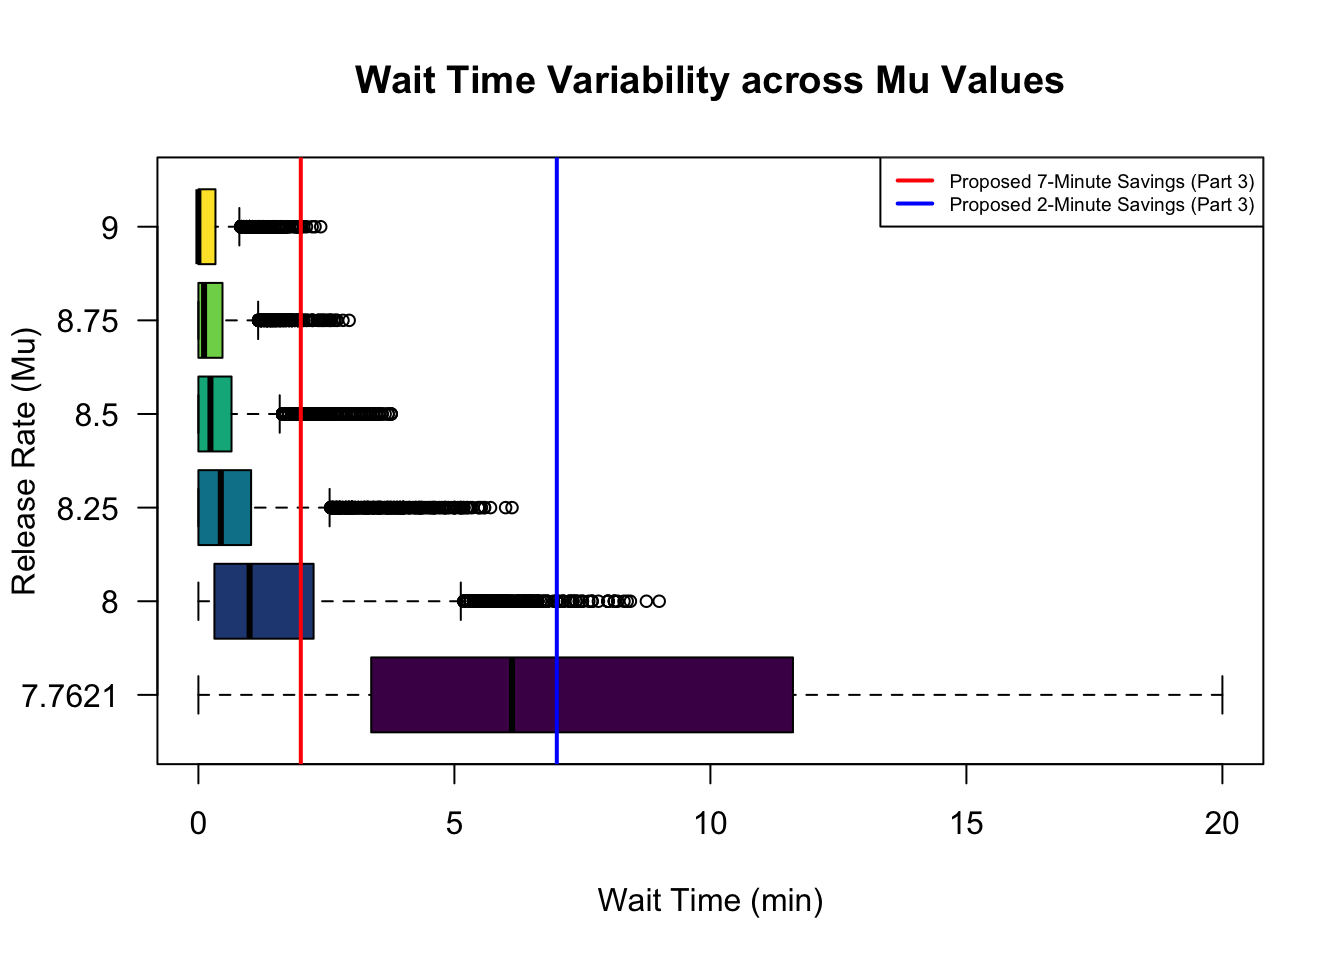
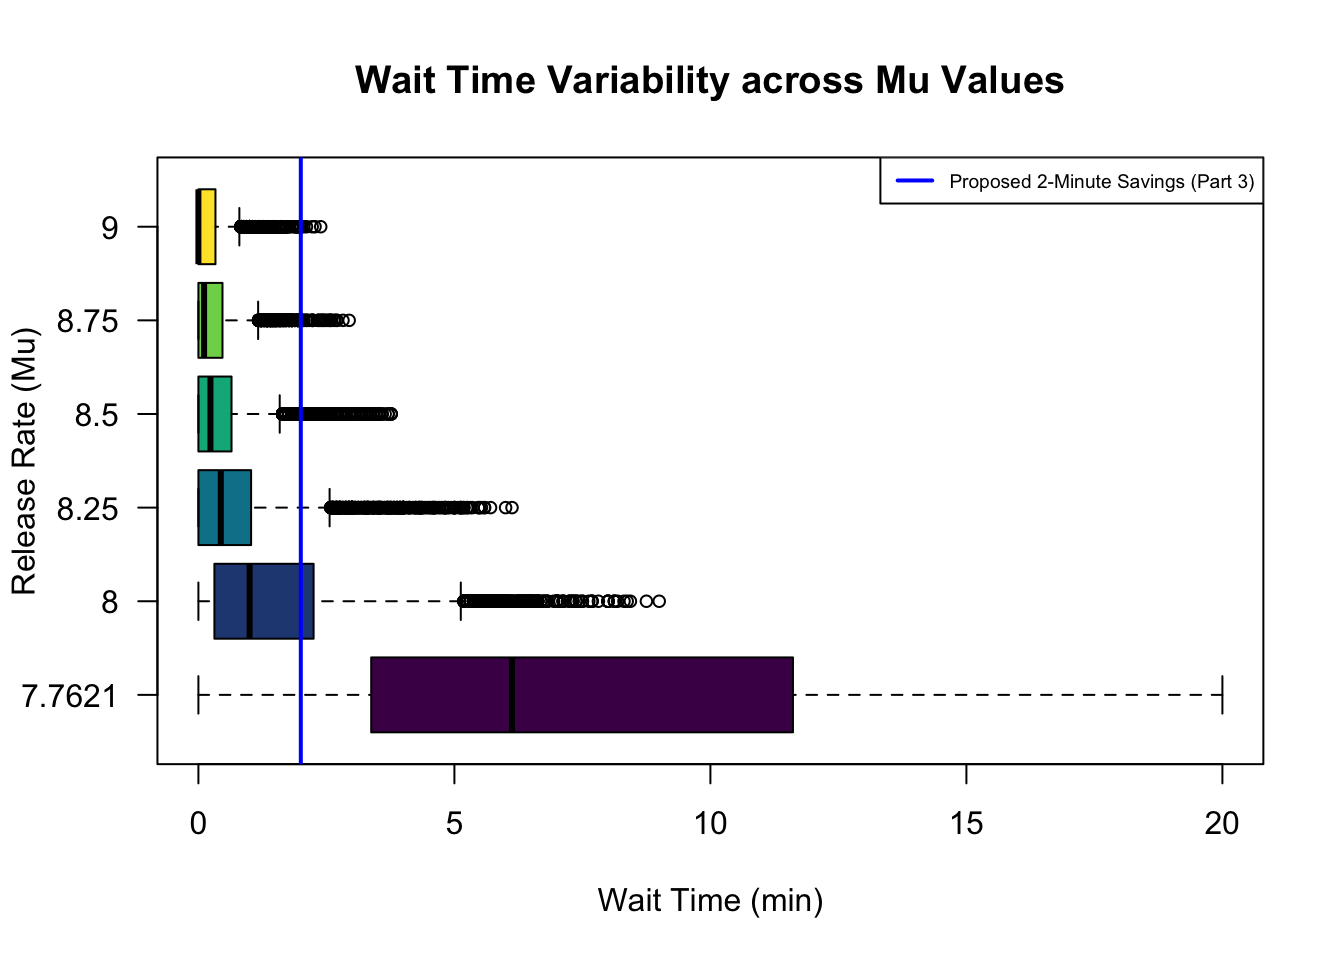
intext citations update

Changed region(s): [[0.4062, 0.1875, 0.4375, 0.7812], [0.2188, 0.1875, 0.25, 0.7812], [0.6562, 0.1875, 0.9375, 0.25]]

diff --git a/index.html b/index.html
@@ -291,7 +291,7 @@ document.addEventListener("DOMContentLoaded", function() {
 </table>
 <section id="introduction-and-background" class="level2">
 <h2 class="anchored" data-anchor-id="introduction-and-background">Introduction and Background</h2>
-<p>Perth’s freeway network has undergone significant changes in recent years. One of the more controversial upgrades is the Smart Freeways project; a modification which aims to improve travel times of commuters from the city’s outer suburbs heading toward the center. This system has been implemented on both the Kwinana Freeway Northbound and the Mitchell Freeway Southbound, managing traffic flow primarily through digital speed-limit gantries and on-ramp metering. On the Mitchell South, travel times during the morning peak have been reduced by up to seven minutes for trips from Hester Avenue, Clarkson to Vincent Street, Leederville (Main Roads, 2025). Road users further north enjoy these improved speeds as they spend a majority of their journey on the freeway mainline. However, commuters closer to the city are more affected by ramp-metering, since a smaller proportion of their trip occurs on the freeway itself. As a result, some drivers have reported their morning commute times more than doubling in length (ABC, 2025).</p>
+<p>Perth’s freeway network has undergone significant changes in recent years. One of the more controversial upgrades is the Smart Freeways project; a modification which aims to improve travel times of commuters from the city’s outer suburbs heading toward the center. This system has been implemented on both the Kwinana Freeway Northbound and the Mitchell Freeway Southbound, managing traffic flow primarily through digital speed-limit gantries and on-ramp metering. On the Mitchell South, travel times during the morning peak have been reduced by up to seven minutes for trips from Hester Avenue, Clarkson to Vincent Street, Leederville (Main Roads Western Australia, 2025). Road users further north enjoy these improved speeds as they spend a majority of their journey on the freeway mainline. However, commuters closer to the city are more affected by ramp-metering, since a smaller proportion of their trip occurs on the freeway itself. As a result, some drivers have reported their morning commute times more than doubling in length (Burmas, 2025).</p>
 <div class="quarto-figure quarto-figure-center">
 <figure class="figure">
 <div class="quarto-figure quarto-figure-center">
@@ -299,7 +299,7 @@ document.addEventListener("DOMContentLoaded", function() {
 <p><a href="https://www.mainroads.wa.gov.au/4a44ed/globalassets/technical-commercial/technical-library/its/how-do-ramp-signals-work.pdf"><img src="rampsignal.png" class="img-fluid quarto-figure quarto-figure-center figure-img"></a></p>
 </figure>
 </div>
-<figcaption>Ramp Signals - Main Roads (2025)</figcaption>
+<figcaption>Ramp Signals - (Main Roads Western Australia, n.d.)</figcaption>
 </figure>
 </div>
 <p>This study will focus on the interchange between Reid Highway and the Mitchell Freeway southbound. This is a critical link in Perth’s north-west suburbs, as it represents the only highway–freeway interchange in the area and is important in the movement of both people and goods each day.</p>
@@ -310,11 +310,11 @@ document.addEventListener("DOMContentLoaded", function() {
 <p><a href="https://earth.google.com/web/@-31.85633299,115.80041978,21.42114135a,2050.6019463d,35y,-0h,0t,0r/data=CgRCAggBOgMKATBCAggASg0I____________ARAA"><img src="reidwhy%20(2).gif" class="img-fluid quarto-figure quarto-figure-center figure-img"></a></p>
 </figure>
 </div>
-<figcaption>Reid Hwy / Mitchell Fwy Interchange - Google Maps (2022)</figcaption>
+<figcaption>Reid Hwy / Mitchell Fwy Interchange - (Google Maps, 2022)</figcaption>
 </figure>
 </div>
 <p>The aim of this study is to determine whether the reported improvements in mainline travel times are offset by increased queuing times for users of this interchange. This will be evaluated by developing a queuing model based on historical traffic data, allowing a comparison of the time spent waiting to enter the freeway with previously reported savings. We will additionally perform parameter optimisation to minimise timing while maintaining stability of the system. For this, it is important to understand the background of stability for a model.</p>
-<p>A queuing system with <span class="math inline">\(c\)</span> lanes is stable (i.e.&nbsp;has a controllable load) if its utilisation rate <span class="math inline">\(\rho = \frac{\lambda}{c \times \mu}\)</span> is less than <span class="math inline">\(1\)</span>, where <span class="math inline">\(\lambda\)</span> and <span class="math inline">\(\mu\)</span> refer to the mean arrival and departure rates respectively (Righini, 2020). In terms of ramp-metering, this utilisation rate is typically maintained in a range below capacity as a means of risk aversion, or avoiding a total breakdown of the queue system (Levinson, 2021).</p>
+<p>A queuing system with <span class="math inline">\(c\)</span> lanes is stable (i.e.&nbsp;has a controllable load) if its utilisation rate <span class="math inline">\(\rho = \frac{\lambda}{c \times \mu}\)</span> is less than <span class="math inline">\(1\)</span>, where <span class="math inline">\(\lambda\)</span> and <span class="math inline">\(\mu\)</span> refer to the mean arrival and departure rates respectively (Righini, 2020). In terms of ramp-metering, this utilisation rate is typically maintained in a range below capacity as a means of risk aversion, or avoiding a total breakdown of the queue system (Levinson et al, 2021).</p>
 </section>
 <section id="methodology" class="level2">
 <h2 class="anchored" data-anchor-id="methodology">Methodology</h2>
@@ -375,8 +375,8 @@ document.addEventListener("DOMContentLoaded", function() {
 <div class="cell-output cell-output-stdout">
 <pre><code>                  Mean Variance
 Dataset       113.2273 161.8030
-NBinom Sim    113.2479 163.5174
-Poisson Sim   112.9540 112.9540</code></pre>
+NBinom Sim    113.0936 159.5638
+Poisson Sim   113.1729 113.1729</code></pre>
 </div>
 </div>
 <p>The Negative Binomial is a much better fit to the original dataset. However, a new concern arises: for the purpose of simulation, we wish to simulate vehicle-counts on a per-minute basis. This will help to increase the granularity of our queuing time results beyond the 15-minute intervals provided in the dataset. One possible solution ( <em>Method 1</em> ) is to simply divide the volume data by <span class="math inline">\(15\)</span> and fit a new model. If we consider this case, our mean will scale by a factor of <span class="math inline">\(\frac{1}{15}\)</span>, and the variance by a factor of <span class="math inline">\(\frac{1}{15^2}\)</span>:</p>
@@ -420,12 +420,11 @@ Vehicles/min (Method 2)   7.548485  17.595080</code></pre>
 8am (mean) 11.581818 13.37102</code></pre>
 </div>
 </div>
-<p>In terms of release rates, on-ramp metering historically operates on deterministic parameters. This means that a fixed number of vehicles are released per time-unit, assuming that vehicles do not run the stop phase. Modern-day systems implement a more dynamic rate, determined live from mainline traffic volume and speed (Dot.gov, 2000). However, these still remain inherently deterministic because given a set of conditions, there is mathematical reasoning behind the release rate, not randomness.</p>
+<p>In terms of release rates, on-ramp metering historically operates on deterministic parameters. This means that a fixed number of vehicles are released per time-unit, assuming that vehicles do not run the stop phase. Modern-day systems implement a more dynamic rate, determined live from mainline traffic volume and speed (Federal Highway Administration(FHWA), U.S. Department of Transportation, 2000). However, these still remain inherently deterministic because given a set of conditions, there is mathematical reasoning behind the release rate, not randomness.</p>
 <p>Therefore, as our model will not account for changes in mainline flow, we will use a simple deterministic release rate.</p>
 </section>
 <section id="model-implementation-and-results" class="level2">
 <h2 class="anchored" data-anchor-id="model-implementation-and-results">Model Implementation and Results</h2>
-<!--Added a quick description of the simulation function and reworded the first bit of this section. -->
 <p>To evaluate the impact of ramp-metering on queue lengths and wait-times, a custom queuing simulation was developed. Whilst standard models, such as an M/D/c, are capable of estimating steady-state averages, they cannot easily accommodate the overdispersed Negative Binomial arrival patterns or allow for sub-15 minute granularity. Hence, the most logical approach was to develop a discrete-event simulation that evaluates queues based on a per-minute basis.</p>
 <p>The most logical choice was to develop onRampSimulation, as a G/D/c queue using the following logic:</p>
 <ol type="1">
@@ -732,7 +731,7 @@ F-statistic: 5.518e+05 on 1 and 5 DF,  p-value: 8.393e-14</code></pre>
 <p><a href="https://youtu.be/5A-NmsAEw_I?si=w6UCZaLtpdHFNQ7i&amp;t=16"><img src="spillback-mainroads.png" class="img-fluid quarto-figure quarto-figure-center figure-img"></a></p>
 </figure>
 </div>
-<figcaption>Example of Spillback - Main Roads (2025)</figcaption>
+<figcaption>Example of Spillback - (Main Roads Western Australia, 2024)</figcaption>
 </figure>
 </div>
 <p>According to Google Earth, the length of road preceding the on-ramp signal is:</p>
@@ -740,7 +739,7 @@ F-statistic: 5.518e+05 on 1 and 5 DF,  p-value: 8.393e-14</code></pre>
 <li><p>Single lane: 330m, and</p></li>
 <li><p>Double lane: 120m</p></li>
 </ul>
-<p>We can also source an effective 8.5m length for a queued passenger vehicle (Main Roads, 2018), accounting for both the length of the vehicle and a gap infront. This leads to a total capacity of <span class="math inline">\(\frac{330+120 \times 2}{8.5}\approx67\)</span> vehicles before spillback occurs.</p>
+<p>We can also source an effective 8.5m length for a queued passenger vehicle (Main Roads Western Australia, 2018), accounting for both the length of the vehicle and a gap infront. This leads to a total capacity of <span class="math inline">\(\frac{330+120 \times 2}{8.5}\approx67\)</span> vehicles before spillback occurs.</p>
 <p>Consider two models with the following parameters:</p>
 <ol type="1">
 <li><p><span class="math inline">\(91.3\%\)</span> and <span class="math inline">\(97.1\%\)</span> utilisation rates</p></li>
@@ -833,6 +832,7 @@ H_a = p &gt; p_o
 <p>Siegrist, K. (2020, May 5). <em>5.4: Infinitely Divisible Distributions</em>. Statistics LibreTexts; Creative Commons. <a href="https://stats.libretexts.org/Bookshelves/Probability_Theory/Probability_Mathematical_Statistics_and_Stochastic_Processes_(Siegrist)/05%3A_Special_Distributions/5.04%3A_Infinitely_Divisible_Distributions" class="uri">https://stats.libretexts.org/Bookshelves/Probability_Theory/Probability_Mathematical_Statistics_and_Stochastic_Processes_(Siegrist)/05%3A_Special_Distributions/5.04%3A_Infinitely_Divisible_Distributions</a></p>
 <p>The Government of Western Australia. (2018). <em>Traffic Control -Avoiding End of Queue Collisions on High Speed Roads</em>. <a href="https://www.mainroads.wa.gov.au/494be1/globalassets/technical-commercial/working-on-roads/traffic-management/factsheet-avoiding-end-of-queue-collisions.pdf" class="uri">https://www.mainroads.wa.gov.au/494be1/globalassets/technical-commercial/working-on-roads/traffic-management/factsheet-avoiding-end-of-queue-collisions.pdf</a></p>
 <p>US Department of Transportation. (2000). <em>Ramp Metering: A Proven, Cost-Effective Operational Strategy - APrimer: 1. Overview of Ramp Metering</em>. Dot.gov; FHWA. <a href="https://ops.fhwa.dot.gov/publications/fhwahop14020/sec1.htm" class="uri">https://ops.fhwa.dot.gov/publications/fhwahop14020/sec1.htm</a></p>
+<p>Righini, G. (2020). Introduction Probability distributions Birth-and-death process Results for some queuing systems Queuing systems design Queuing theory. In <em>University of Milan</em>. University of Milan. <a href="https://homes.di.unimi.it/righini/Didattica/Logistica/MaterialeLog/S4%20-%20Queuing%20theory.pdf" class="uri">https://homes.di.unimi.it/righini/Didattica/Logistica/MaterialeLog/S4%20-%20Queuing%20theory.pdf</a></p>
 <script>
   document.addEventListener("DOMContentLoaded", function() {
     let ticking = false;
